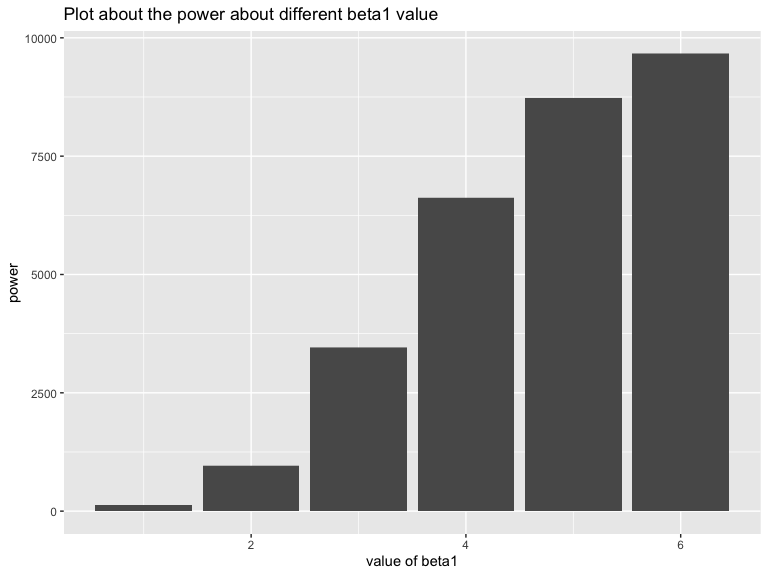
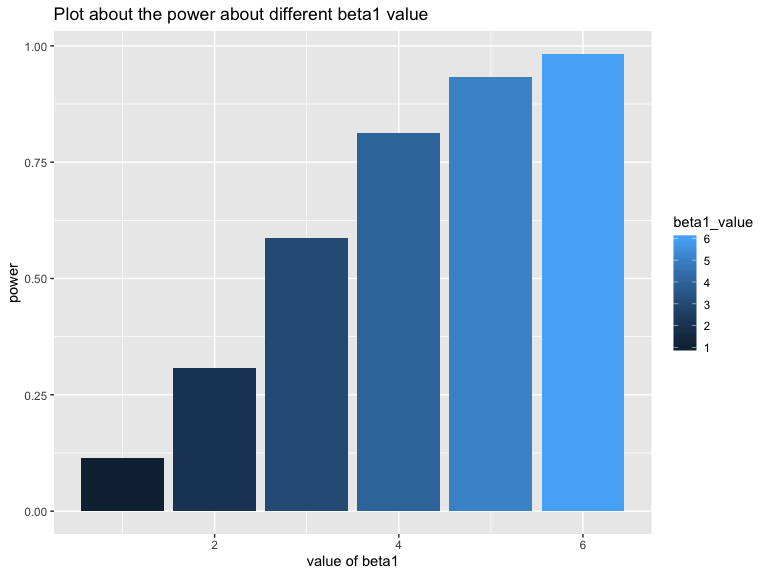
make some change to the plot

diff --git a/p8105_hw5_al3998.md b/p8105_hw5_al3998.md
@@ -298,21 +298,23 @@ beta_results =
   filter(p_value < 0.05) %>% 
   group_by(beta1_value) %>% 
   mutate(power = n()/10000) 
-  plot = ggplot(beta_sig,aes(x = beta1_value,y = power))+
+  plot = beta_sig %>% 
+  select(beta1_value,power) %>% 
+  distinct() 
+  ggplot(plot,aes(x = beta1_value,y = power,fill = beta1_value))+
     geom_col()+
     labs(
     title = "Plot about the power about different beta1 value",
     x = "value of beta1",
     y = "power")  
-   plot     
 ```
 
 <img src="p8105_hw5_al3998_files/figure-gfm/unnamed-chunk-12-1.png" width="90%" />
 
-We can see from the graphic,when the differnece between beta1 and 0 get
+We can see from the graphic,when the difference between beta1 and 0 get
 larger,the value of power get larger and it is easier for us to reject
-the
-null.
+the null.And the effect size gets larger,the power gets
+larger.
 
 ### Make a plot showing the average estimate of beta1 and the true value of beta1
 
